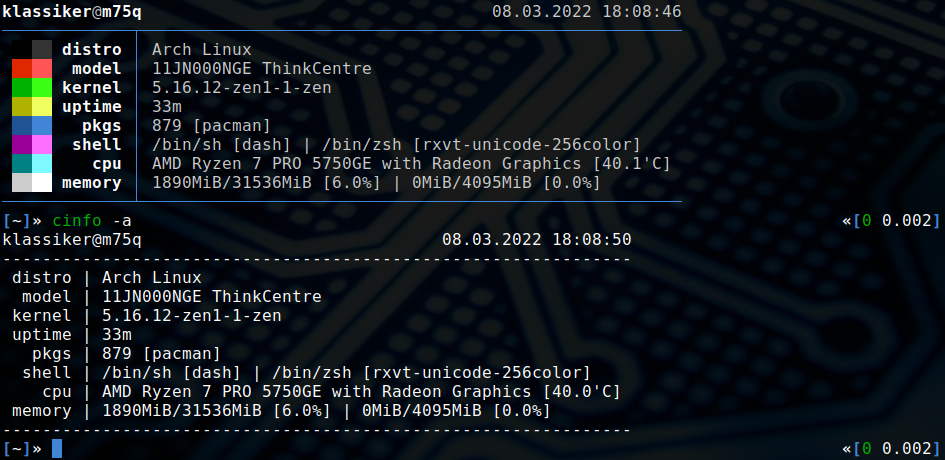
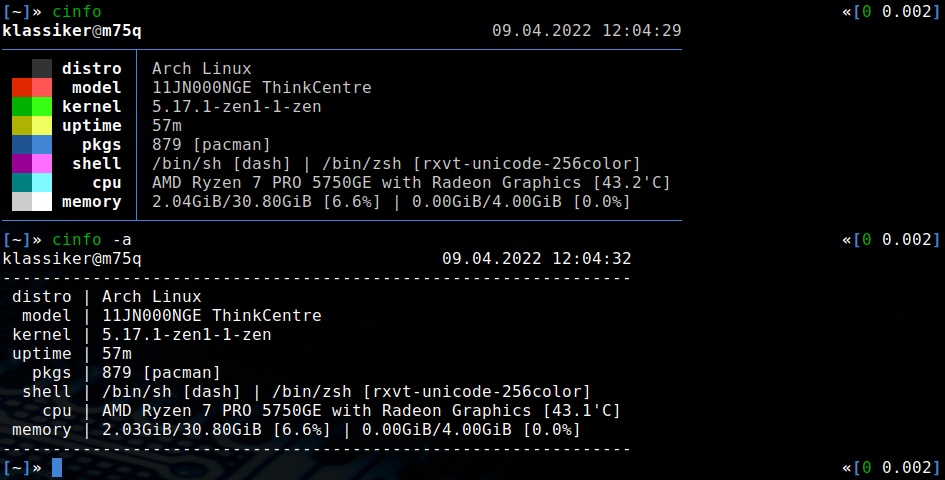
added memory calculations for gibibyte

diff --git a/cinfo.c b/cinfo.c
@@ -2,7 +2,7 @@
  * path:   /home/klassiker/.local/share/repos/cinfo/cinfo.c
  * author: klassiker [mrdotx]
  * github: https://github.com/mrdotx/cinfo
- * date:   2022-04-02T12:04:03+0200
+ * date:   2022-04-09T12:43:13+0200
  */
 
 #include <stdio.h>
@@ -389,21 +389,56 @@ void *get_mem() {
         } else {
             mem_available = (mem_total - mem_available) / 1024;
         }
+
         mem_total /= 1024;
         mem_percent = (float) mem_available / mem_total * 100;
 
-        if (0 == swap_total) {
-            sprintf(g_mem, "%dMiB%s%dMiB [%.1f%%]", \
-                    mem_available, MEMORY_DIVIDER, mem_total, mem_percent);
-        } else {
+        if (0 < swap_total) {
             swap_available = (swap_total - swap_free) / 1024;
             swap_total /= 1024;
             swap_percent = (float) swap_available / swap_total * 100;
+        }
 
-            sprintf(g_mem, "%dMiB%s%dMiB [%.1f%%]%s%dMiB%s%dMiB [%.1f%%]", \
-                    mem_available, MEMORY_DIVIDER, mem_total, mem_percent, \
-                    INFO_DIVIDER, \
-                    swap_available, MEMORY_DIVIDER, swap_total, swap_percent);
+        if (0 == strcmp(MEMORY_UNIT, "MiB") \
+        || (0 == strcmp(MEMORY_UNIT, "auto") && 1024 > mem_total)) {
+            if (0 == swap_total) {
+                sprintf(g_mem, "%dMiB%s%dMiB [%.1f%%]", \
+                        mem_available, \
+                        MEMORY_DIVIDER, \
+                        mem_total, \
+                        mem_percent);
+            } else {
+                sprintf(g_mem, "%dMiB%s%dMiB [%.1f%%]%s%dMiB%s%dMiB [%.1f%%]", \
+                        mem_available, \
+                        MEMORY_DIVIDER, \
+                        mem_total, \
+                        mem_percent, \
+                        INFO_DIVIDER, \
+                        swap_available, \
+                        MEMORY_DIVIDER, \
+                        swap_total, \
+                        swap_percent);
+            }
+        } else if (0 == strcmp(MEMORY_UNIT, "GiB") \
+               || (0 == strcmp(MEMORY_UNIT, "auto") && 1024 <= mem_total)) {
+            if (0 == swap_total) {
+                sprintf(g_mem, "%.2fGiB%s%.2fGiB [%.1f%%]", \
+                        (float) mem_available / 1024, \
+                        MEMORY_DIVIDER, \
+                        (float) mem_total / 1024, \
+                        mem_percent);
+            } else {
+                sprintf(g_mem, "%.2fGiB%s%.2fGiB [%.1f%%]%s%.2fGiB%s%.2fGiB [%.1f%%]", \
+                        (float) mem_available / 1024, \
+                        MEMORY_DIVIDER, \
+                        (float) mem_total / 1024, \
+                        mem_percent, \
+                        INFO_DIVIDER, \
+                        (float) swap_available / 1024, \
+                        MEMORY_DIVIDER, \
+                        (float) swap_total / 1024, \
+                        swap_percent);
+            }
         }
     }
 
